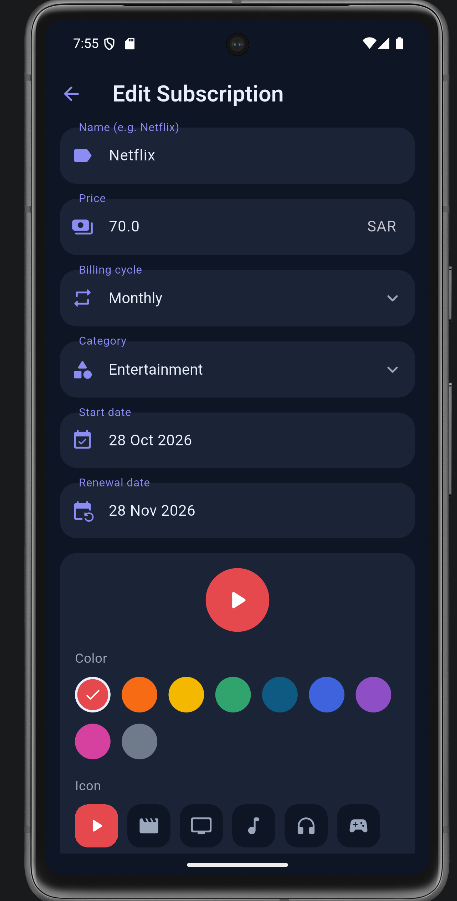
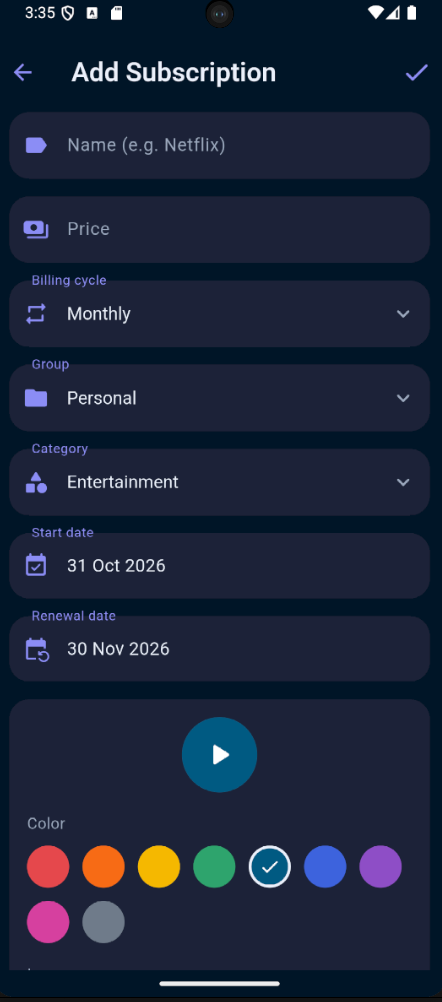
Update screenshots and README

diff --git a/README.md b/README.md
@@ -9,9 +9,9 @@ My Subscription is a student project that keeps all of a person's subscriptions 
 
 ## Screenshots
 
-| Home | Add / Edit |
-|------|------------|
-| ![Home](screenshots/home.png) | ![Edit](screenshots/edit.png) |
+| Login | Home | Add / Edit |
+|-------|------|------------|
+| <img src="screenshots/login.png" width="240"> | <img src="screenshots/home.png" width="240"> | <img src="screenshots/edit.png" width="240"> |
 
 ## Problem Statement
 Users may forget their subscriptions, renewal dates, or how much they spend.
